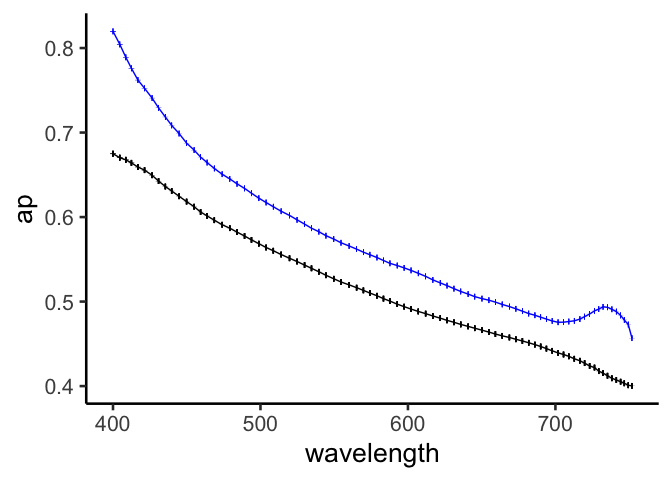
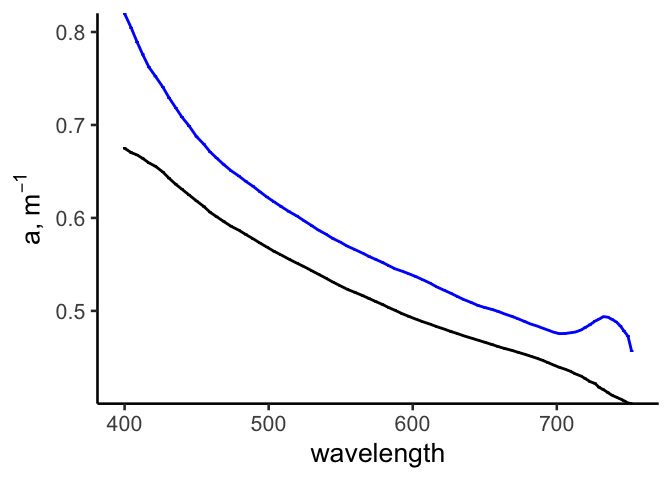
plot edits

diff --git a/rmd/acs_lab4.md b/rmd/acs_lab4.md
@@ -306,11 +306,12 @@ ap_data %>%
   rename(se = se_total_a) %>% 
   select(wl, total_a, ap, se) %>% 
   ggplot(aes(x = wl, y = ap)) +
-  geom_errorbar(aes(ymin = ap - se, ymax = ap + se), size = 2, width = 1) +
-  geom_line() +
-  geom_line(aes(y = total_a), color = "blue") +
-  geom_errorbar(aes(ymin = total_a - se, ymax = total_a + se), size = 2, width = 0.5, color = "blue") +
-  labs(x = "wavelength") +
+  geom_errorbar(aes(ymin = ap - se, ymax = ap + se)) +
+  geom_line(size = 1) +
+  geom_errorbar(aes(ymin = total_a - se, ymax = total_a + se),  color = "blue") +
+  geom_line(aes(y = total_a), size = 1, color = "blue") +
+  labs(x = "wavelength", y = expression(paste("a, m"^-1))) +
+  scale_y_continuous(expand = c(0,0)) +
   theme_classic2(20)
 ```
 
